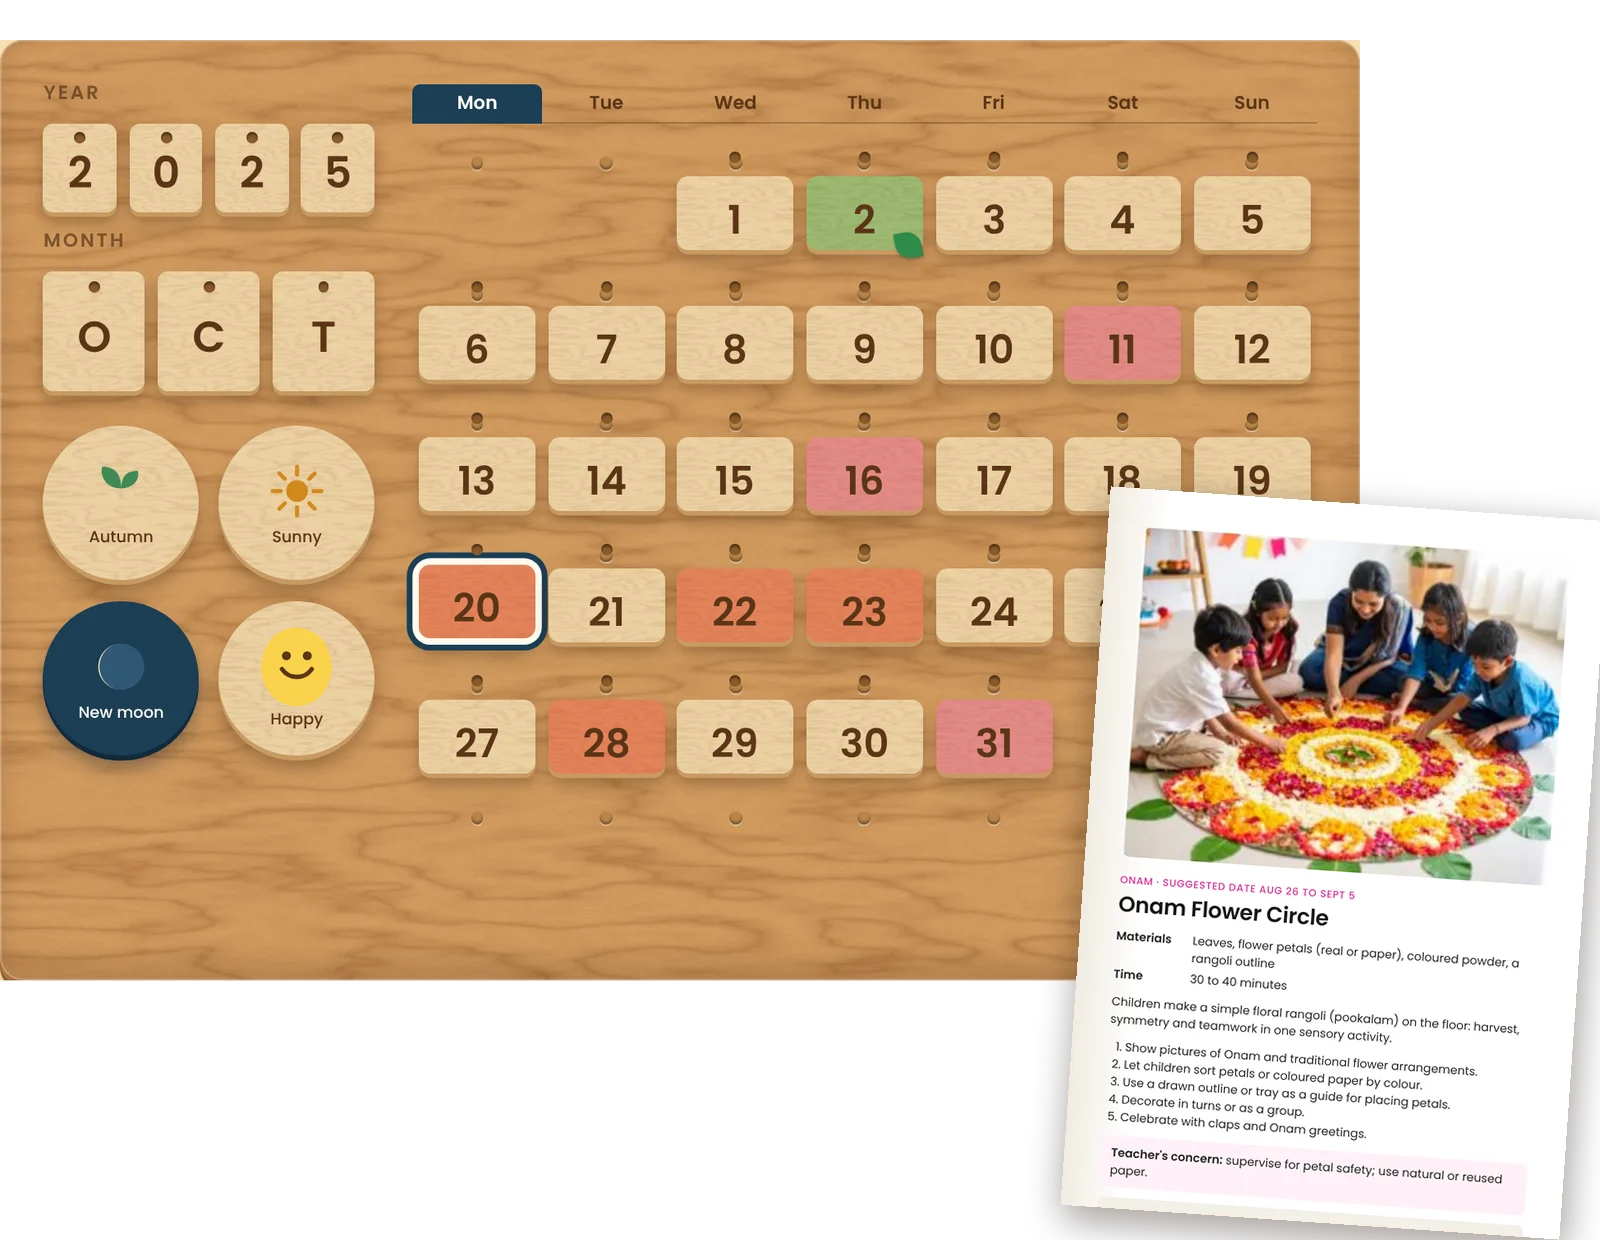
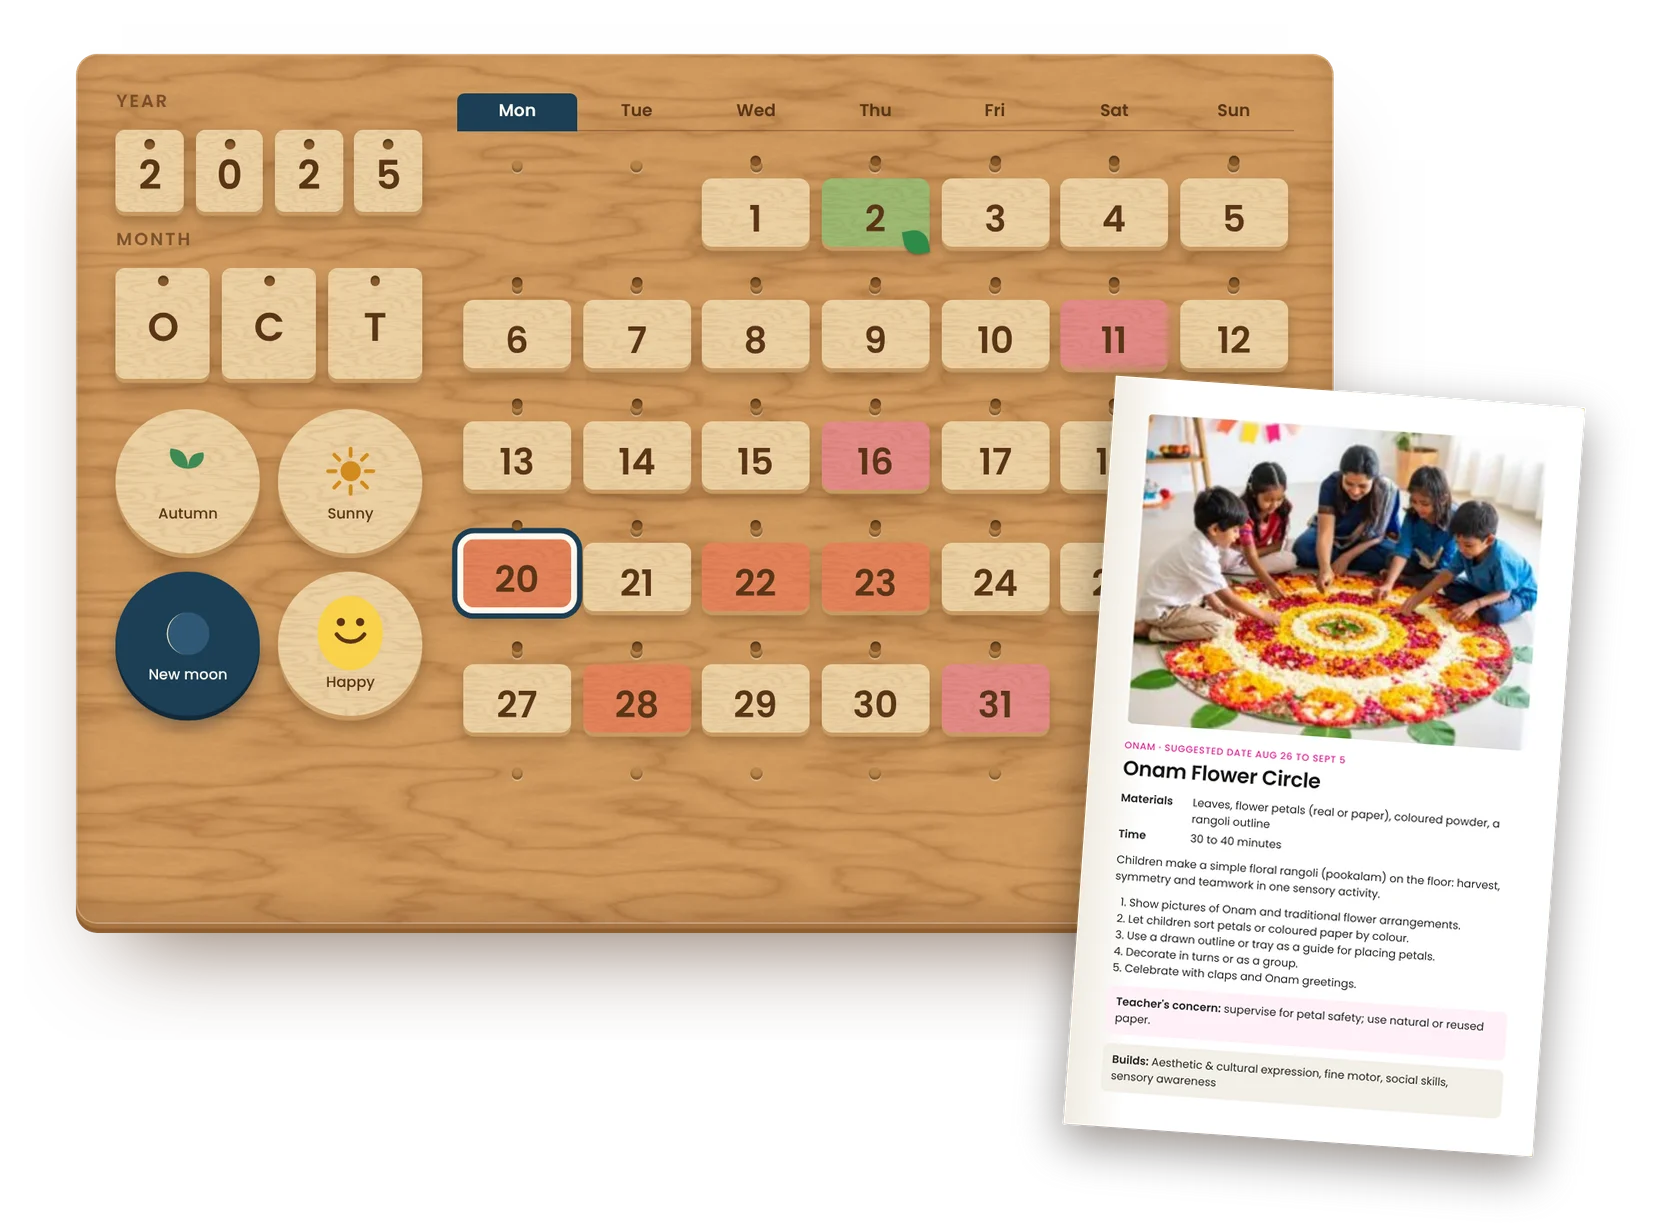
Sadabahar hero: show full board shadow and whole booklet card
Claude-Session: https://claude.ai/code/session_016zeEGvH6vPYVrRkNkUBKek

diff --git a/ecce-calendar.html b/ecce-calendar.html
@@ -42,7 +42,7 @@
       <a class="ec__jump" href="#board">Play with the board<svg viewBox="0 0 24 24" aria-hidden="true"><path d="M12 5v14M6 13l6 6 6-6" fill="none" stroke="currentColor" stroke-width="2.2" stroke-linecap="round" stroke-linejoin="round"/></svg></a>
       </div>
       <figure class="ec__heroimg">
-        <img src="assets/cases/ecce/hero.webp" width="1600" height="1240" alt="The Sadabahar wooden pegboard set to October, with painted festival blocks for Diwali and Dussehra, beside an open activity booklet." fetchpriority="high">
+        <img src="assets/cases/ecce/hero.webp" width="1660" height="1232" alt="The Sadabahar wooden pegboard set to October, with painted festival blocks for Diwali and Dussehra, beside an open activity booklet." fetchpriority="high">
       </figure>
       <ul class="ec__facts">
         <li><span>Users</span>Anganwadi workers and children aged 3 to 6</li>
